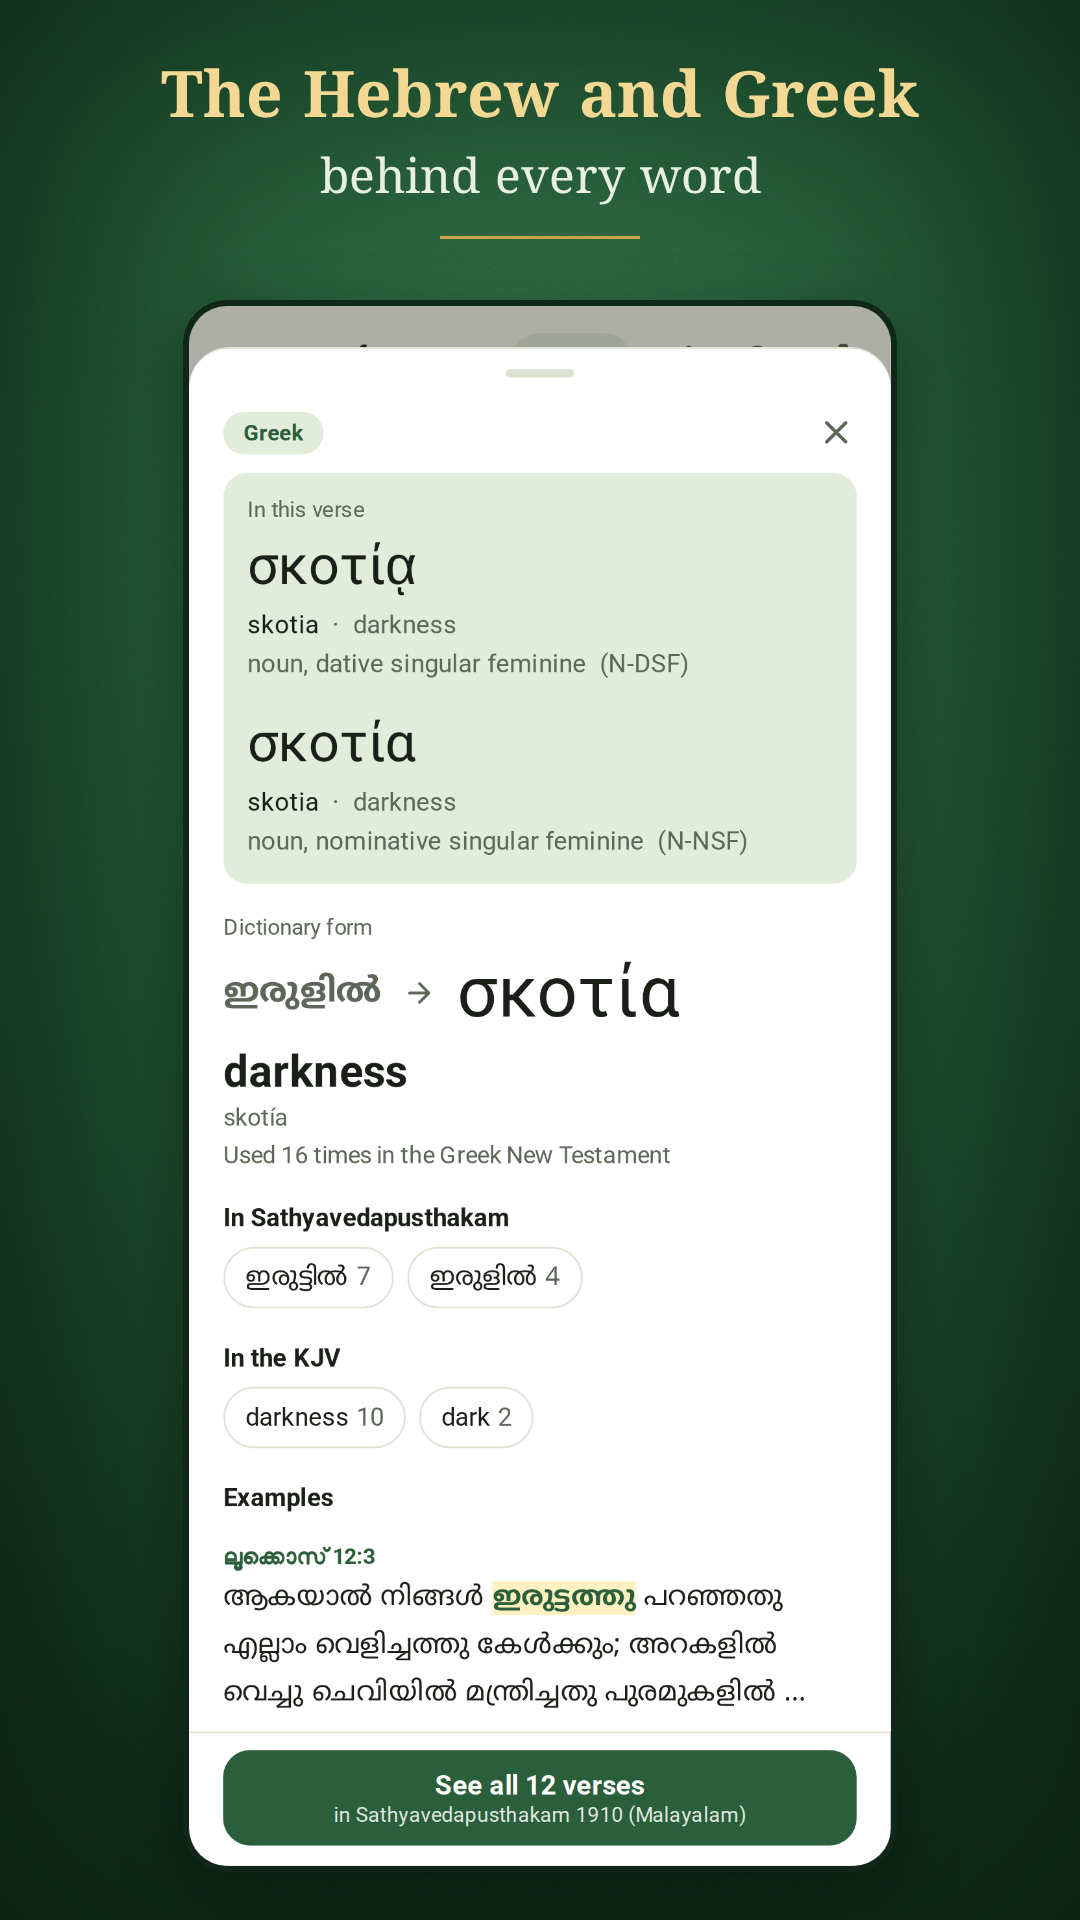
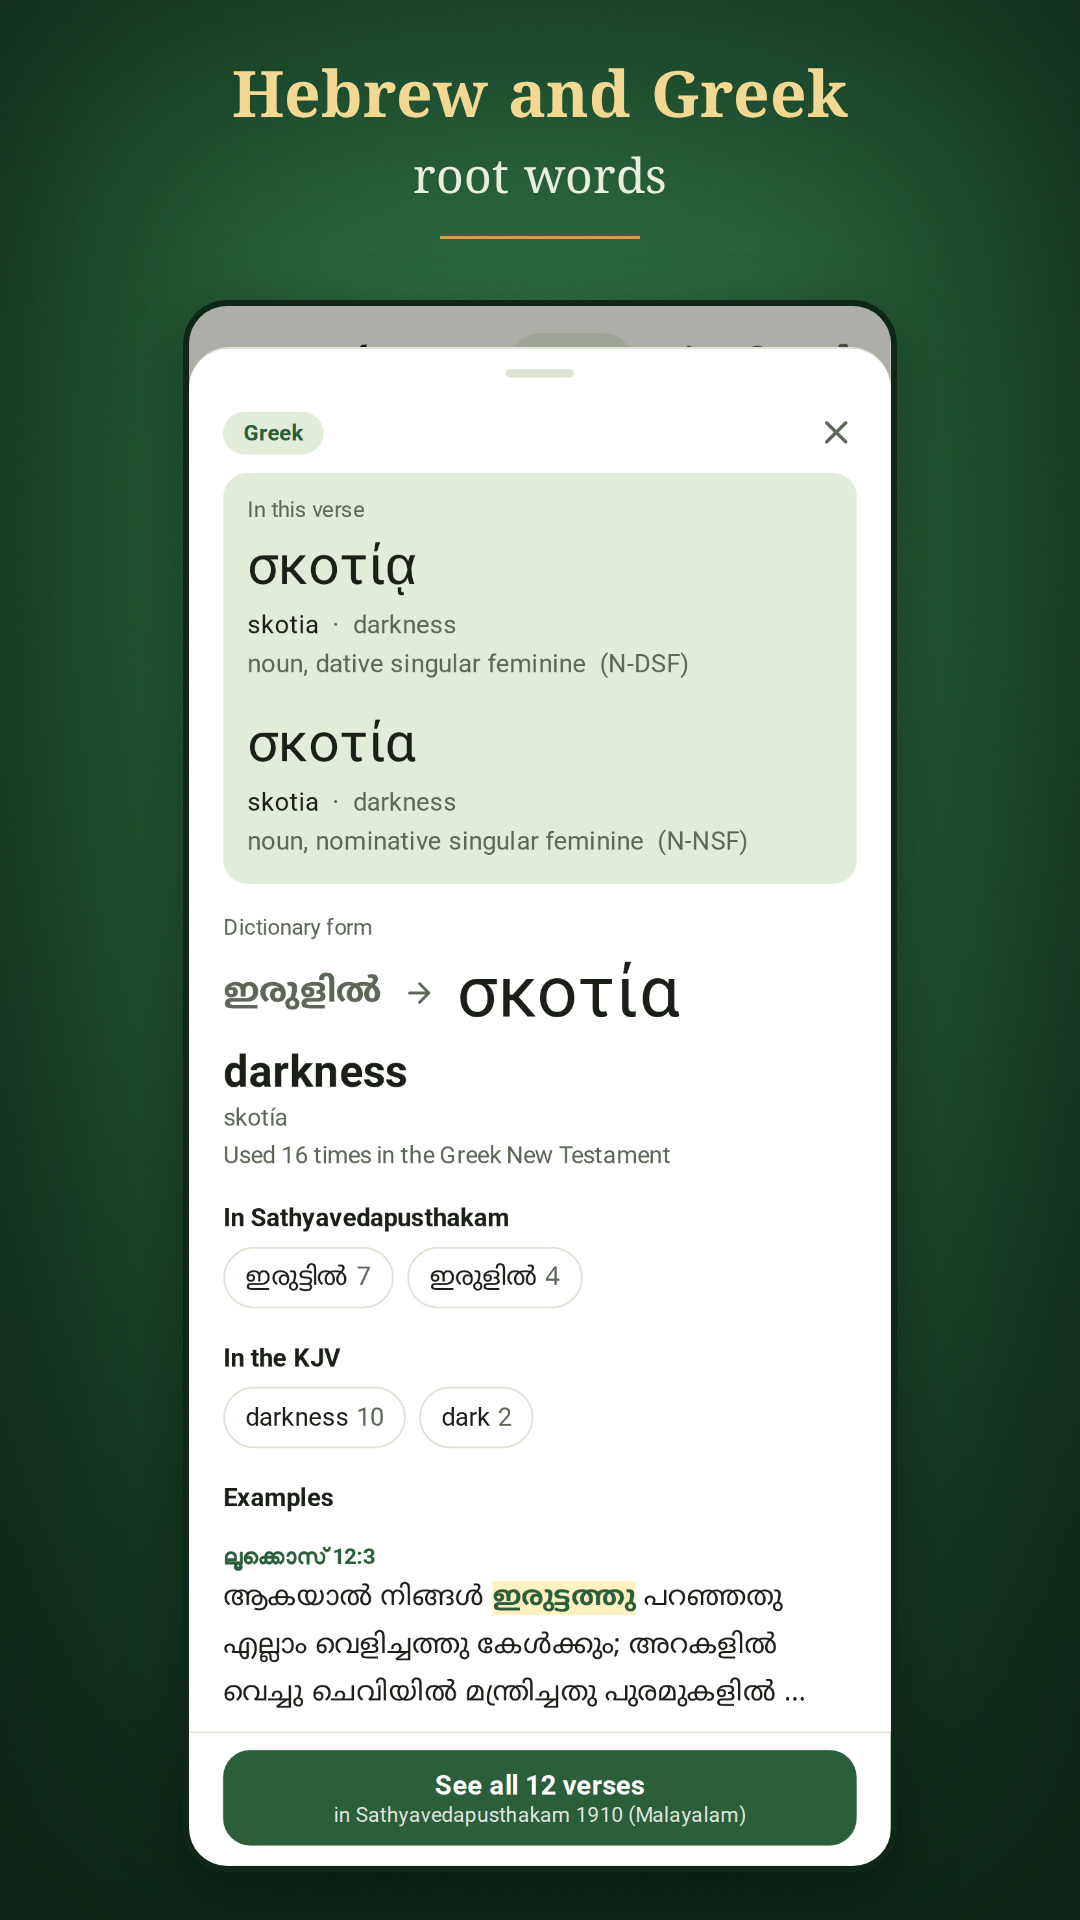
Play listing: Hebrew and Greek root words
The feature graphics, short and full descriptions and the word-sheet
screenshot captions speak of root words (മൂലപദങ്ങൾ): Hebrew for the Old
Testament, Greek for the New. The word-by-word Hebrew and Greek view keeps
"words", since it shows the text itself. The listing's count labels are
corrected.

Claude-Session: https://claude.ai/code/session_01Kt8QQgS1XLBE3LTVGzDsDj

Changed region(s): [[0.1528, 0.0312, 0.8556, 0.125]]

diff --git a/docs/play/listing-vedapusthakam.md b/docs/play/listing-vedapusthakam.md
@@ -14,20 +14,20 @@ Malayalam speaker before it goes live.
 വേദപുസ്തകം – മലയാളം ഇംഗ്ലീഷ്
 ```
 
-**Short description** (69 of 80)
+**Short description** (80 of 80)
 
 ```
-മലയാളം–ഇംഗ്ലീഷ് ബൈബിൾ. പഴയനിയമത്തിന് എബ്രായ, പുതിയനിയമത്തിന് ഗ്രീക്ക് പദങ്ങൾ.
+മലയാളം–ഇംഗ്ലീഷ് ബൈബിൾ. പഴയനിയമത്തിന് എബ്രായ, പുതിയനിയമത്തിന് ഗ്രീക്ക് മൂലപദങ്ങൾ.
 ```
 
 **Full description**
 
 ```
-മലയാളം–ഇംഗ്ലീഷ് ബൈബിൾ: സത്യവേദപുസ്തകവും (1910) കിംഗ് ജെയിംസ് വേർഷനും വായിക്കാനും, ഓരോ വാക്കിനും പിന്നിലുള്ള മൂലവാക്കുകൾ, പഴയനിയമത്തിൽ എബ്രായയും പുതിയനിയമത്തിൽ ഗ്രീക്കും, പഠിക്കാനും.
+മലയാളം–ഇംഗ്ലീഷ് ബൈബിൾ: സത്യവേദപുസ്തകവും (1910) കിംഗ് ജെയിംസ് വേർഷനും വായിക്കാനും, ഓരോ വാക്കിന്റെയും മൂലപദങ്ങൾ, പഴയനിയമത്തിൽ എബ്രായയും പുതിയനിയമത്തിൽ ഗ്രീക്കും, പഠിക്കാനും.
 
 • സത്യവേദപുസ്തകവും കിംഗ് ജെയിംസ് വേർഷനും (KJV): ഒറ്റ സ്പർശത്തിൽ മാറാം.
-• അടിവരയിട്ട ഒരു മലയാളം വാക്കിൽ തൊട്ടാൽ അതിന്റെ മൂലവാക്ക് (പഴയനിയമത്തിൽ എബ്രായ, പുതിയനിയമത്തിൽ ഗ്രീക്ക്): അർത്ഥം, ഉച്ചാരണം, വ്യാകരണം, സ്ട്രോങ്ങിന്റെ നിഘണ്ടു.
-• ആ മൂലവാക്ക് വരുന്ന എല്ലാ വാക്യങ്ങളും, സത്യവേദപുസ്തകം അതിനെ ഏതെല്ലാം വാക്കുകളാൽ പരിഭാഷപ്പെടുത്തുന്നു എന്നതും.
+• അടിവരയിട്ട ഒരു മലയാളം വാക്കിൽ തൊട്ടാൽ അതിന്റെ മൂലപദം (പഴയനിയമത്തിൽ എബ്രായ, പുതിയനിയമത്തിൽ ഗ്രീക്ക്): അർത്ഥം, ഉച്ചാരണം, വ്യാകരണം, സ്ട്രോങ്ങിന്റെ നിഘണ്ടു.
+• ആ മൂലപദം വരുന്ന എല്ലാ വാക്യങ്ങളും, സത്യവേദപുസ്തകം അതിനെ ഏതെല്ലാം വാക്കുകളാൽ പരിഭാഷപ്പെടുത്തുന്നു എന്നതും.
 • മൂലപാഠം: പഴയനിയമത്തിലെ ഓരോ വാക്യത്തിന്റെയും എബ്രായ പാഠവും പുതിയനിയമത്തിലേതിന്റെ ഗ്രീക്ക് പാഠവും വാക്കുവാക്കായി, ഉച്ചാരണവും അർത്ഥവും സഹിതം.
 • മലയാളത്തിലും ഇംഗ്ലീഷിലും തിരയാം; അക്ഷരരീതിയിലെ ചെറിയ വ്യത്യാസങ്ങൾ (ആത്മാവ്/ആത്മാവു, കൽപിച്ചു/കല്പിച്ചു) പ്രശ്നമല്ല. സങ്കീർത്തനം 23, യോഹന്നാൻ 3:16 പോലെ ടൈപ്പ് ചെയ്ത് നേരെ പോകാം.
 • ഒരു വാക്യം മലയാളത്തിലും KJV-യിലും മൂലപാഠത്തോടൊപ്പം താരതമ്യം ചെയ്യാം.
@@ -50,20 +50,20 @@ Malayalam speaker before it goes live.
 Malayalam English Bible
 ```
 
-**Short description** (75 of 80)
+**Short description** (72 of 80)
 
 ```
-Malayalam-English Bible. Hebrew words for the Old Testament, Greek for the New.
+Malayalam-English Bible: Hebrew root words for the OT, Greek for the NT.
 ```
 
 **Full description**
 
 ```
-A Malayalam-English Bible: read the Sathyavedapusthakam (1910) and the King James Version, and study the words behind them, Hebrew in the Old Testament and Greek in the New.
+A Malayalam-English Bible: read the Sathyavedapusthakam (1910) and the King James Version, and study the root words behind them, Hebrew in the Old Testament and Greek in the New.
 
 • The Sathyavedapusthakam and the King James Version, switched with one tap.
-• Tap an underlined Malayalam word for the word behind it, Hebrew in the Old Testament or Greek in the New: meaning, pronunciation, grammar and Strong's dictionary entry.
-• Every verse where that Hebrew or Greek word stands, and the Malayalam words the Sathyavedapusthakam uses for it.
+• Tap an underlined Malayalam word for its root word, Hebrew in the Old Testament or Greek in the New: meaning, pronunciation, grammar and Strong's dictionary entry.
+• Every verse where that root word stands, and the Malayalam words the Sathyavedapusthakam uses for it.
 • Hebrew and Greek words: the Hebrew of every Old Testament verse and the Greek of every New Testament verse, word by word, with transliteration and a short meaning.
 • Search in Malayalam or English; small spelling differences (ആത്മാവ്/ആത്മാവു, കൽപിച്ചു/കല്പിച്ചു) don't matter. Type a reference such as സങ്കീർത്തനം 23 or John 3:16 to go straight there.
 • Compare a verse in Malayalam and the KJV side by side with the Hebrew (Old Testament) or Greek (New Testament).
